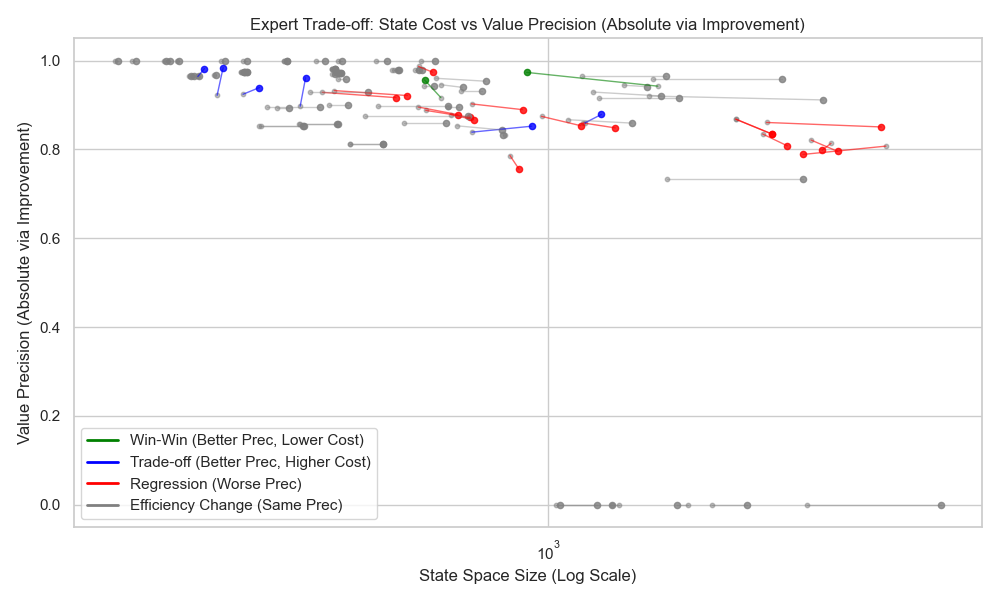
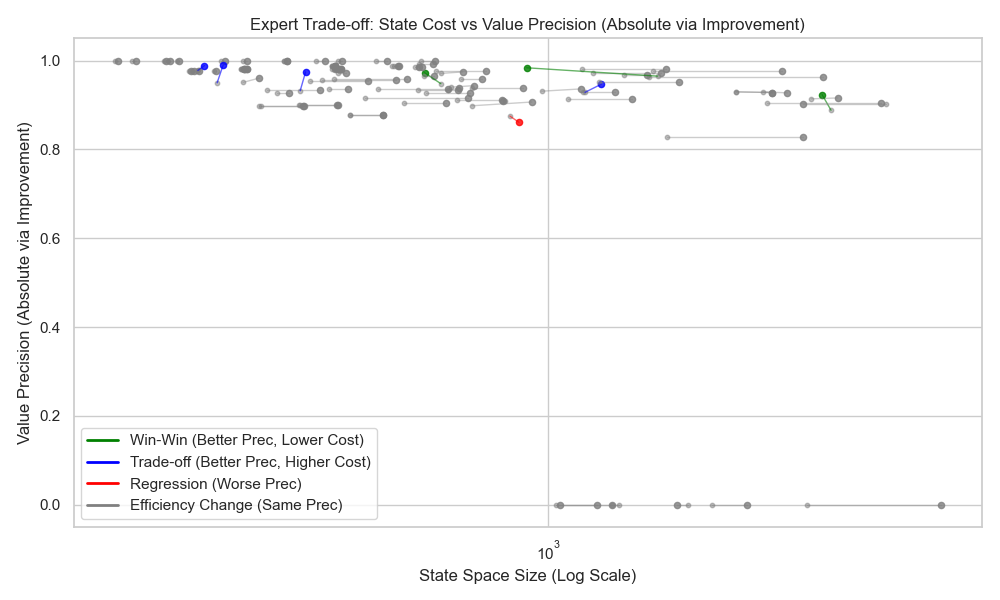
work on benchmarks

Changed region(s): [[0.186, 0.09, 0.899, 0.27], [0.496, 0.27, 0.527, 0.3]]

diff --git a/benchmarks/plot_utils.py b/benchmarks/plot_utils.py
@@ -41,6 +41,35 @@ def calc_precise_stats(metric, poly, base):
         
     return hits, total
 
+def calc_literal_stats(poly, base):
+    """
+    Calculates literal precision stats (hits, total) relative to baseline.
+    Uses 'literal0CFAPrecise' map (Addr -> Bool).
+    Hit = Literal is Precise (True) OR Literal is Dead (Missing in Poly).
+    """
+    poly_map = poly.get('literal0CFAPrecise', {})
+    base_map = base.get('literal0CFAPrecise')
+    
+    if not base_map:
+        return 0, 0
+    
+    hits = 0
+    total = 0
+    
+    for k, base_val in base_map.items():
+        total += 1
+        
+        # If missing in poly -> Dead Code -> Precise
+        if k not in poly_map:
+            hits += 1
+            continue
+            
+        # If present, check if precise (True)
+        if poly_map[k]:
+            hits += 1
+            
+    return hits, total
+
 def calc_prod_stats(metric, poly, base):
     """Calculates productivity stats (hits, total) relative to baseline."""
     poly_map = poly.get(metric)
@@ -194,11 +223,8 @@ def compute_metrics(run, baseline_run=None):
         s_real_hits, s_real_total = calc_precise_stats('storeToStrSizes', m, baseline)
         
         # Literals Real
-        # Use BASELINE numLitAddresses to ensure comparability
-        l_total = baseline.get('numLitAddresses', 0)
-        n_lit_top = m.get('literal0CFATopCount', 0)
-        # Real Hits = Total (Static) - Top (Dynamic/Static Imprecise)
-        l_real_hits = max(0, l_total - n_lit_top)
+        # Use new map-based calculation
+        l_real_hits, l_total = calc_literal_stats(m, baseline)
         
         # Combined Value Real (Store + Literals)
         total_real_hits = s_real_hits + l_real_hits
@@ -211,11 +237,8 @@ def compute_metrics(run, baseline_run=None):
         s_abs_impr_hits, s_total_abs = calc_abs_impr_stats('storeToStrSizes', m, baseline)
         
         # Literal Abs Impr
-        # For Literals, "Gain" is reducing Top count. 
-        # Baseline Precise = l_total - b_lit_top
-        # Gain = max(0, b_lit_top - n_lit_top)
-        # Sum = l_total - b_lit_top + b_lit_top - n_lit_top = l_total - n_lit_top
-        # This is exactly l_real_hits.
+        # For Literals, "Real Precision" IS "Absolute Improvement" logic
+        # (Precise now means improved or already precise)
         l_abs_impr_hits = l_real_hits
         
         # Combined Value Abs Impr (Store + Literals)
@@ -238,7 +261,8 @@ def compute_metrics(run, baseline_run=None):
         
         # Add raw literal counts for debugging
         metrics['numLitAddresses'] = l_total
-        metrics['literal0CFATopCount'] = n_lit_top
+        metrics['literalHits'] = l_real_hits # Replacing Top count with Hits for debug
+
 
 
     else:

diff --git a/benchmarks/debug_red_benchmarks.py b/benchmarks/debug_red_benchmarks.py
@@ -74,7 +74,8 @@ if not regressions.empty:
     print(f"\nDetails for worst regression: {bench_name}")
     
     # Find rows in original df to get components
-    cols = ['variant', 'd', 'm', 'prec_val_real', 'prec_struct_real', 'literal0CFATopCount', 'numLitAddresses']
+    print("\nComponent Breakdown (Approx from columns):")
+    cols = ['prec_struct_real', 'literalHits', 'numLitAddresses']
     print(df_final[df_final['benchmarkName'] == bench_name][cols])
 else:
     print("No regressions found.")
